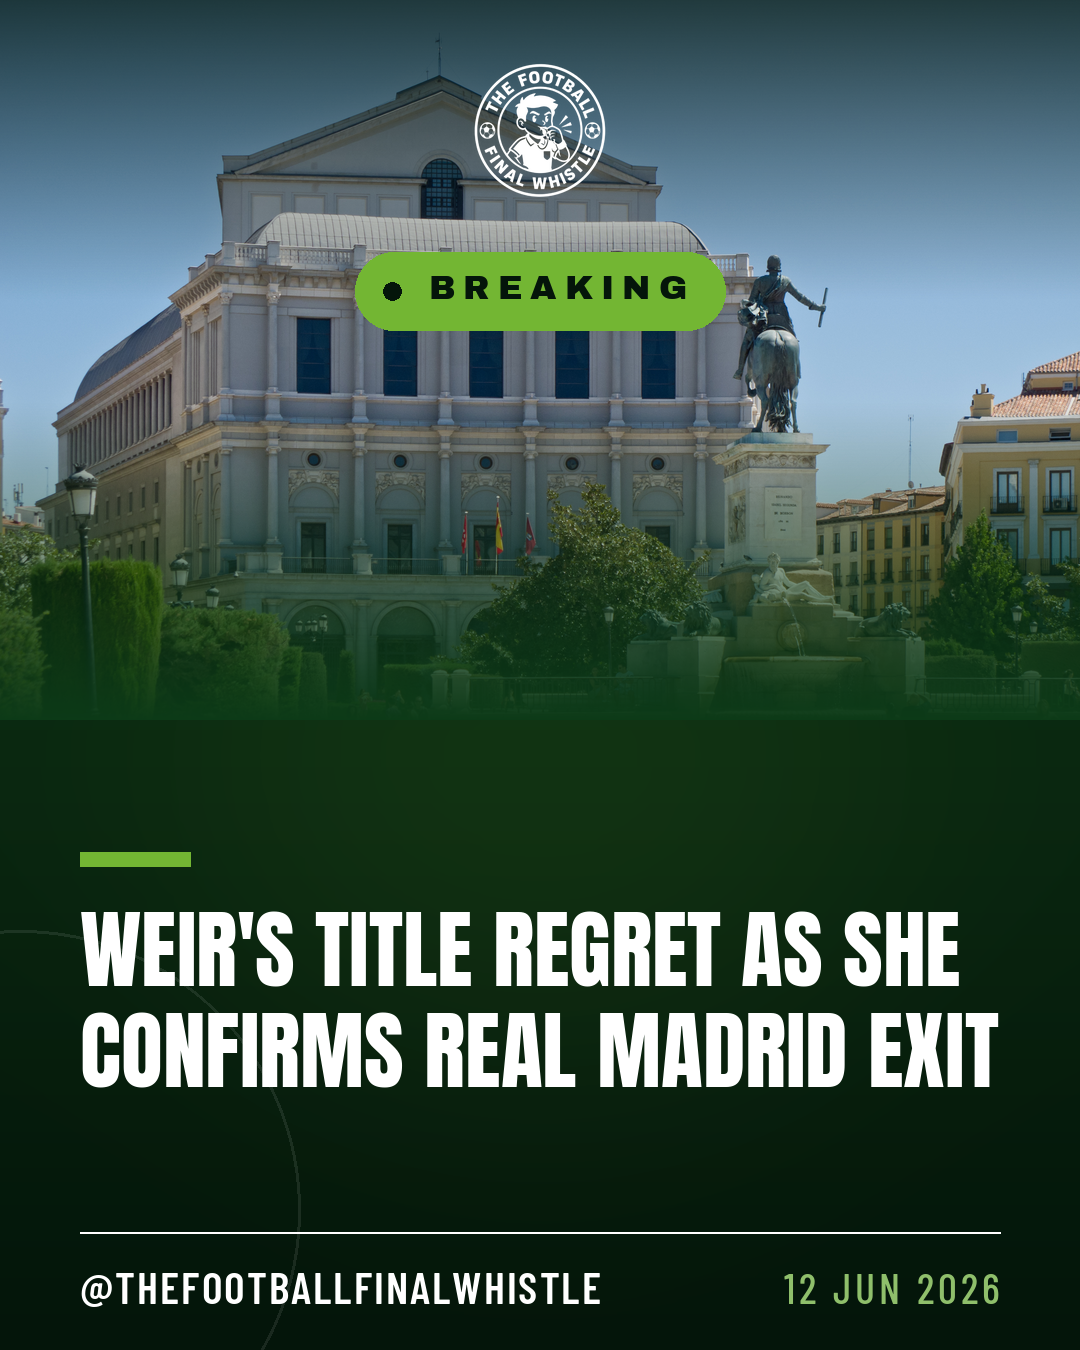
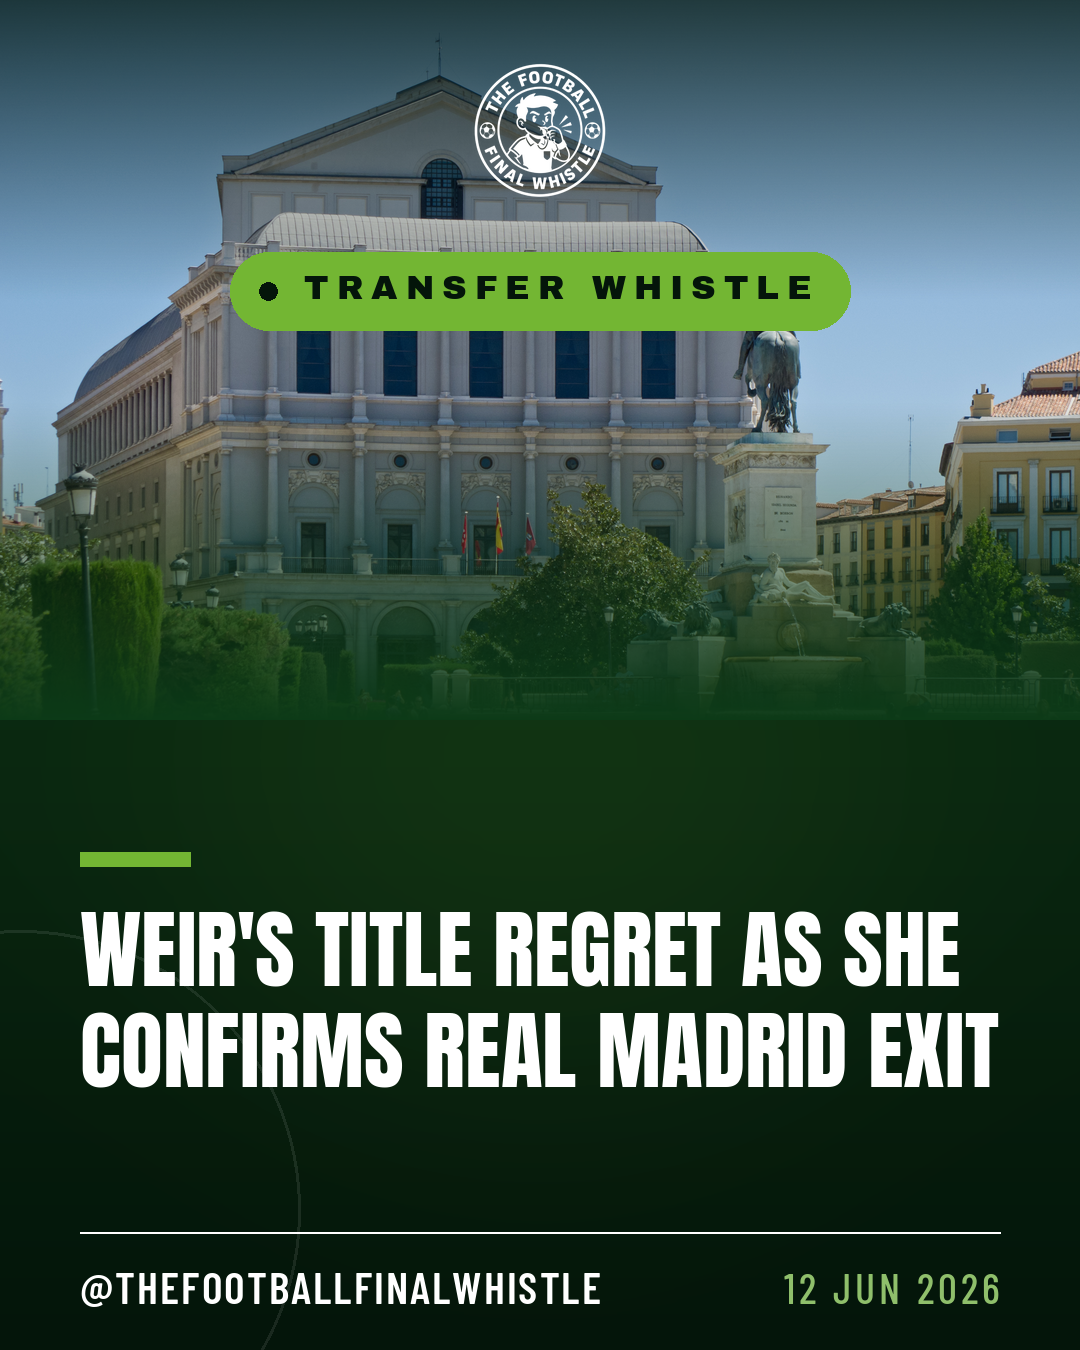
transfer classification keywords + reclassify queued transfer posts
https://claude.ai/code/session_01L7JeCZsayuZWFmqJJLzfft

Changed region(s): [[0.2139, 0.1867, 0.7944, 0.2489]]

diff --git a/tffw/verification.py b/tffw/verification.py
@@ -149,7 +149,8 @@ def classify_news(headline: str) -> str:
     transfer_kw = (
         "transfer", "sign", "signs", "signing", "deal", "fee", "medical",
         "loan", "bid", "agree", "agreed", "contract", "release clause",
-        "move to", "joins", "join ",
+        "move to", "joins", "join ", "offer", "swoop", "exit", "departure",
+        "set to leave", "wants out", "price tag",
     )
     if any(k in h for k in transfer_kw):
         return "TRANSFER WHISTLE"
